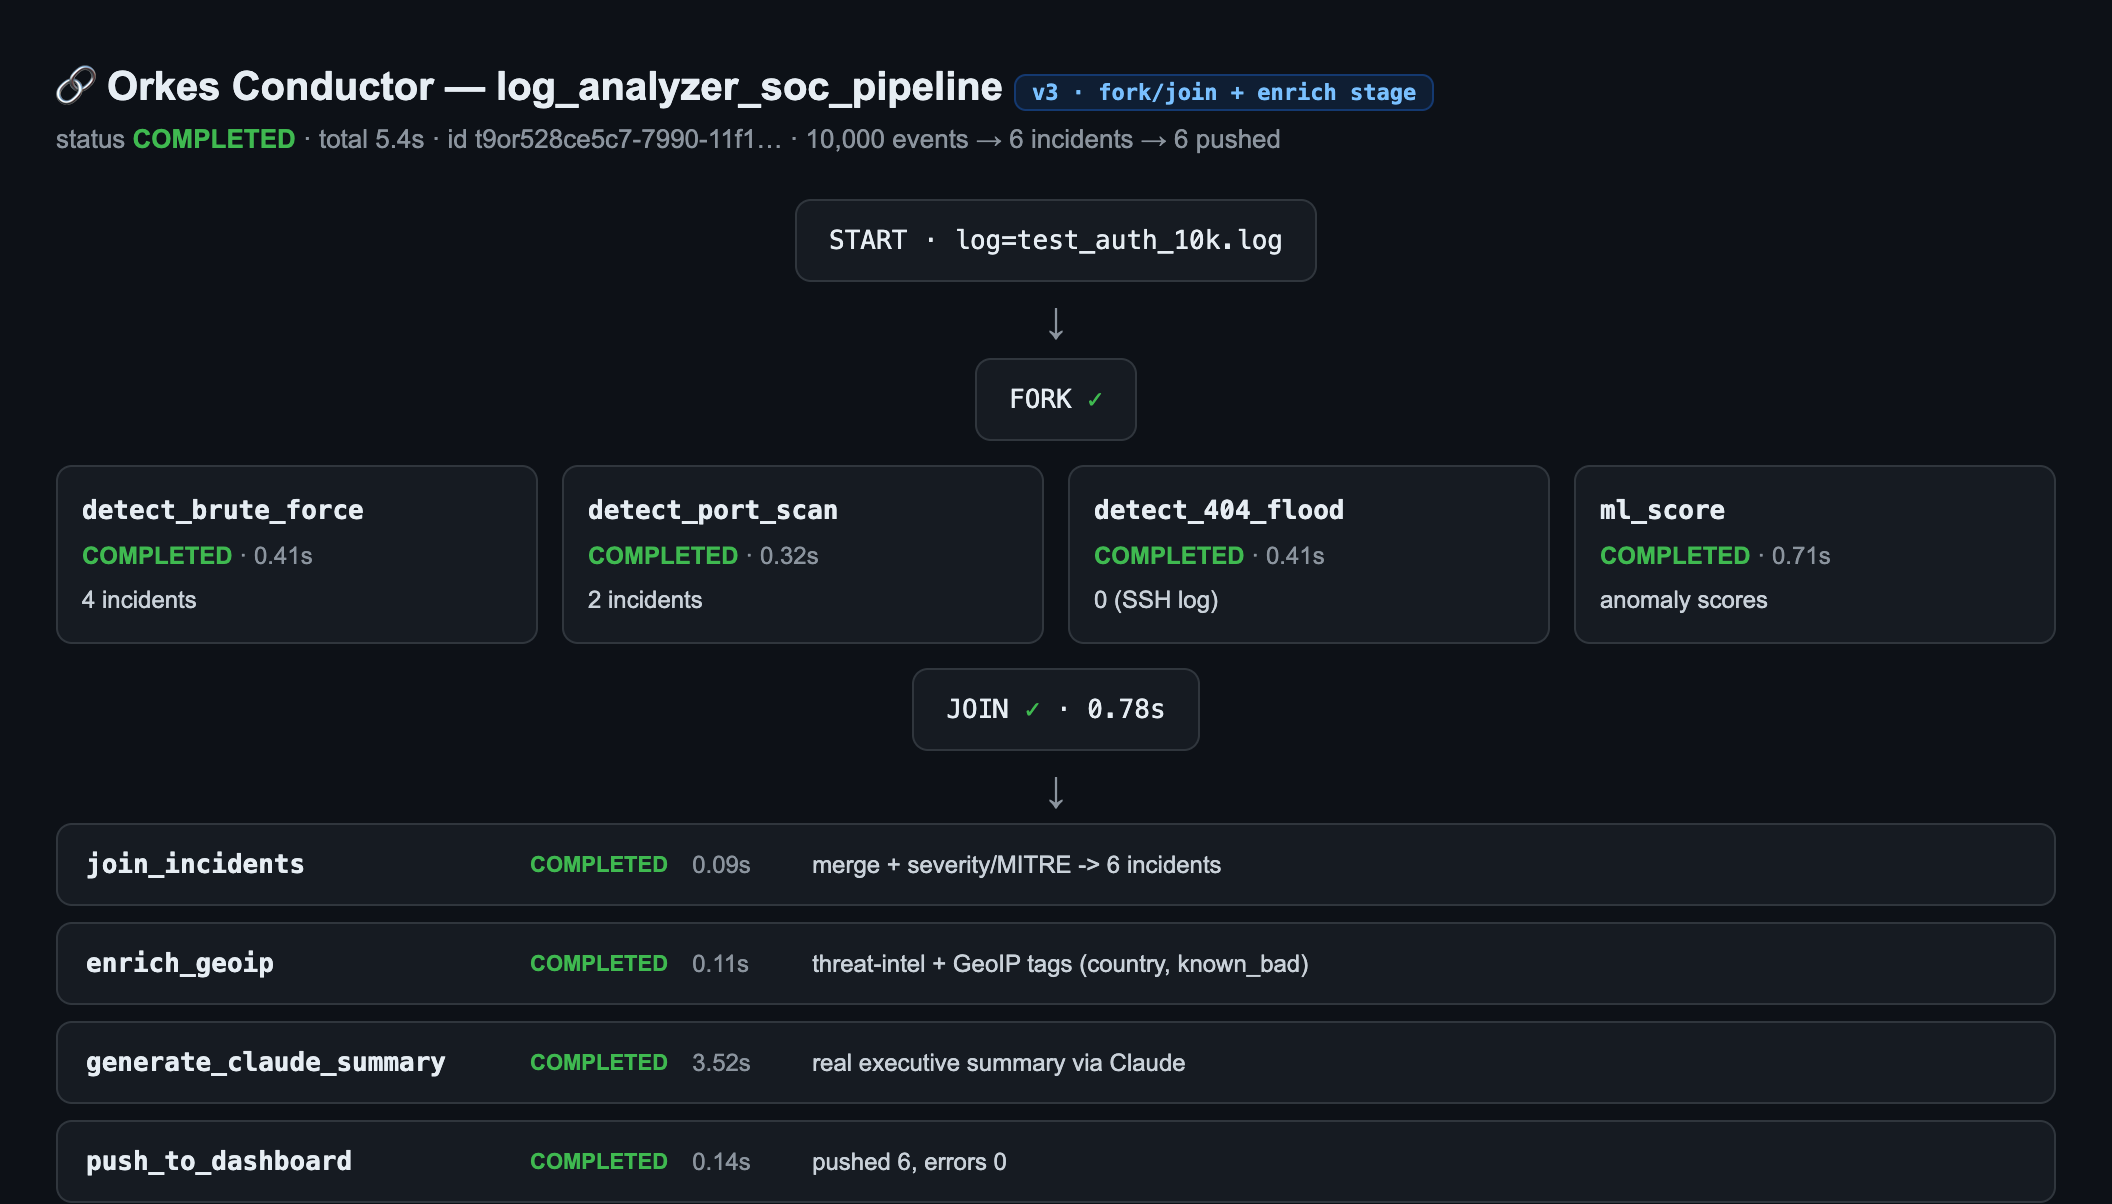
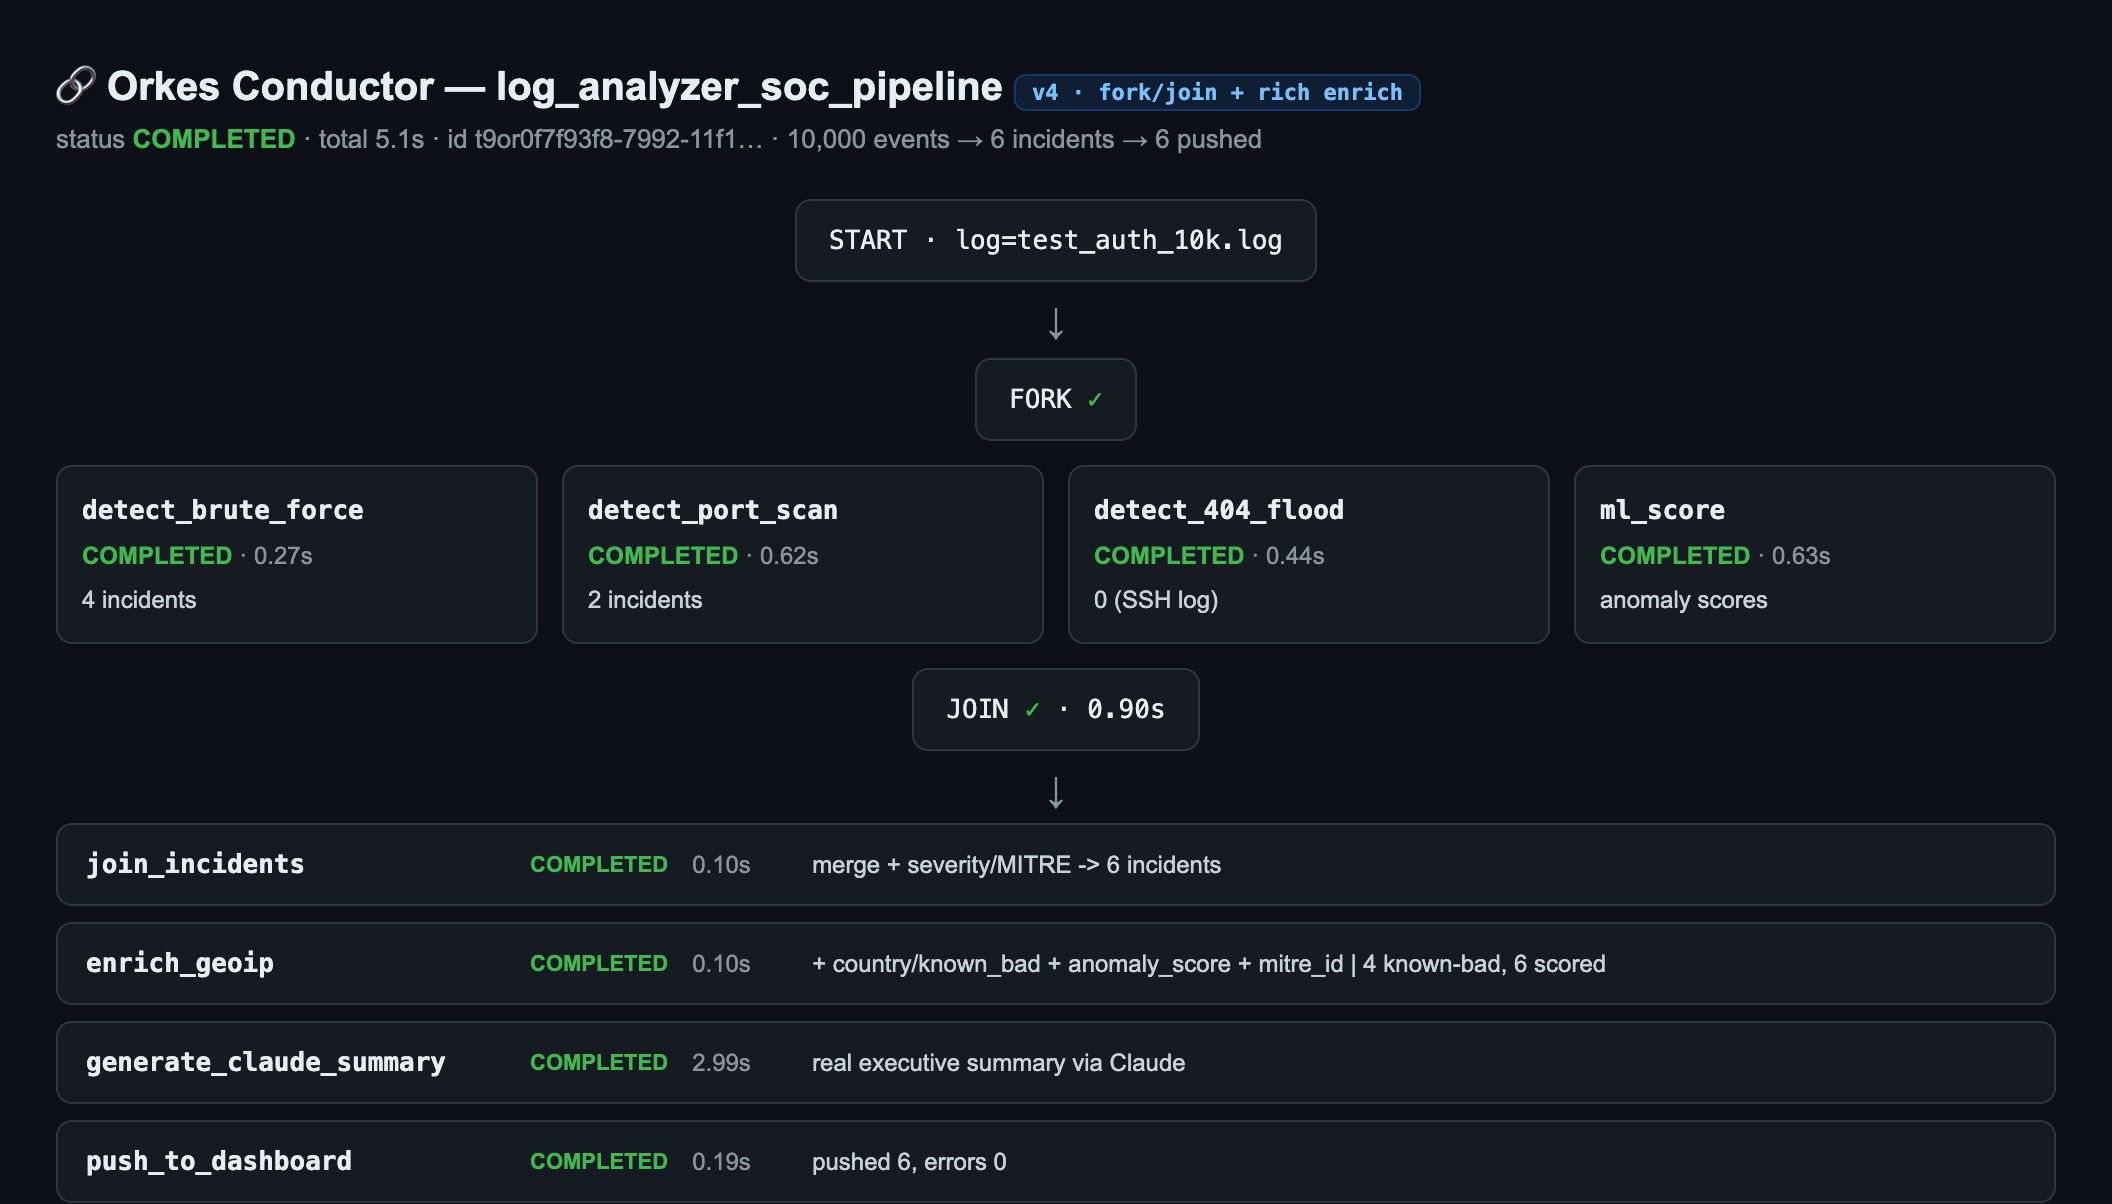
feat: enrich each incident with anomaly score, flat MITRE id, and aggregate stats (v4)
The enrich_geoip stage now folds the per-IP anomaly score and a flat mitre_id
onto each incident dict alongside the existing GeoIP + threat-intel tags, so a
single incident carries severity, MITRE, country, known_bad, and anomaly_score
together by the time it reaches the SOC push. The anomaly score is null when
the ML stage did not score that IP. The stage also returns aggregate stats
(enriched, known_bad_count, countries, scored) so its Orkes task panel shows a
rollup rather than a bare list. Registered as workflow v4; v1-v3 remain intact.

Changed region(s): [[0.25, 0.0615, 0.6875, 0.1229], [0.375, 0.799, 0.75, 0.8297]]

diff --git a/conductor_workers.py b/conductor_workers.py
@@ -195,23 +195,48 @@ def join_incidents(
 
 
 @worker_task(task_definition_name="enrich_geoip")
-def enrich_geoip(incidents: List[dict]) -> dict:
-    """v3 stage: attach threat-intel (``known_bad``) + GeoIP (``country``) to each incident.
+def enrich_geoip(incidents: List[dict], anomaly_scores: dict = None) -> dict:
+    """v3/v4 stage: attach threat-intel (``known_bad``) + GeoIP (``country``) to each
+    incident, and (v4) fold in the richer per-incident fields so one dict carries
+    severity + MITRE + geo + threat-intel + anomaly score together.
 
     Kept as its own task so the lookups are an independently timed, retryable stage in the
     Orkes view. The threat-intel CIDR list and the MaxMind GeoIP reader are both LOCAL
     (a file read + an .mmdb open -- no network calls); they are built and closed inside
     this worker, so only the small incident list crosses the task boundary. ``country`` is
-    ``"Unknown"`` when GEOIP_DB_PATH is unset, which keeps the stage working offline."""
+    ``"Unknown"`` when GEOIP_DB_PATH is unset, which keeps the stage working offline.
+
+    v4 additions per incident: ``anomaly_score`` (merged by source_ip from the ml_score
+    output, ``None`` when that IP has no score -- honest, not an error) and a flat
+    ``mitre_id`` for at-a-glance display alongside the existing nested ``mitre`` dict. The
+    task also returns small aggregate stats so the Orkes output panel shows substance."""
     if not incidents:
-        return {"incidents": []}
+        return {"incidents": [], "enriched": 0, "known_bad_count": 0, "countries": {}, "scored": 0}
+
     networks = enrichment.load_threat_intel()
     geo = enrichment.GeoIP()
     try:
-        enriched = enrichment.enrich_incidents(incidents, networks, geo)
+        enriched = enrichment.enrich_incidents(incidents, networks, geo)  # + country, known_bad
     finally:
         geo.close()
-    return _json_safe({"incidents": enriched})
+
+    scores = anomaly_scores or {}
+    countries: dict[str, int] = {}
+    for inc in enriched:
+        inc["anomaly_score"] = scores.get(inc.get("source_ip"))  # None if this IP wasn't scored
+        inc["mitre_id"] = (inc.get("mitre") or {}).get("id")
+        country = inc.get("country", "Unknown")
+        countries[country] = countries.get(country, 0) + 1
+
+    return _json_safe(
+        {
+            "incidents": enriched,
+            "enriched": len(enriched),
+            "known_bad_count": sum(1 for i in enriched if i.get("known_bad")),
+            "countries": countries,
+            "scored": sum(1 for i in enriched if i.get("anomaly_score") is not None),
+        }
+    )
 
 
 @worker_task(task_definition_name="generate_claude_summary")

diff --git a/CONDUCTOR.md b/CONDUCTOR.md
@@ -7,7 +7,7 @@ Conductor for tasks.
 
 ```
         ┌──────────────── Orkes Conductor (cloud control plane + UI) ────────────────┐
-        │  workflow: log_analyzer_soc_pipeline  (v3, fork/join + enrich stage)        │
+        │  workflow: log_analyzer_soc_pipeline  (v4, fork/join + rich enrich)         │
         │                                                                             │
         │            ┌─ detect_brute_force ─┐                                         │
         │   (FORK) ──┼─ detect_port_scan  ──┼── (JOIN) ─► join_incidents              │
@@ -32,8 +32,11 @@ detectors and the ML scorer into four parallel tasks and joins them — a real D
 independently retryable, observable stages. **v3** pulls threat-intel + GeoIP enrichment
 out of the join into its own `enrich_geoip` stage, so `join_incidents` only merges and
 tags severity/MITRE (cheap, local), and the enrichment lookups are separately timed and
-retryable. Each fork branch re-parses the log locally so only small incident lists (never
-the raw events) cross a task boundary.
+retryable. **v4** enriches each incident dict in place inside `enrich_geoip` — merging the
+per-IP anomaly score and a flat `mitre_id` so one incident carries severity, MITRE, GeoIP,
+threat-intel, and anomaly score together — and returns aggregate stats (known-bad count,
+countries, scored) so the task panel shows substance. Each fork branch re-parses the log
+locally so only small incident lists (never the raw events) cross a task boundary.
 
 ## A live run
 
@@ -60,6 +63,28 @@ A representative excerpt from the run above:
 
 The stage is still optional: it returns `null` — without failing the workflow — when the
 key is unset *or* invalid, so the downstream SOC push always runs.
+
+By the time an incident reaches `push_to_dashboard` it carries every computed field in one
+place — as of v4, severity, MITRE (nested + flat `mitre_id`), GeoIP, threat-intel, and the
+per-IP anomaly score together:
+
+```json
+{
+  "incident_type": "brute_force",
+  "source_ip": "10.99.99.99",
+  "severity": "CRITICAL",
+  "mitre_id": "T1110.001",
+  "mitre": { "id": "T1110.001", "name": "Brute Force: Password Guessing", "tactic": "Credential Access" },
+  "country": "Unknown",
+  "known_bad": false,
+  "anomaly_score": 1.0,
+  "event_count": 783
+}
+```
+
+`anomaly_score` is `null` when the ML stage did not score that IP — honest, not an error.
+`enrich_geoip` also returns aggregate stats (`enriched`, `known_bad_count`, `countries`,
+`scored`) so its Orkes task panel shows a rollup rather than just the incident list.
 
 ## Files
 